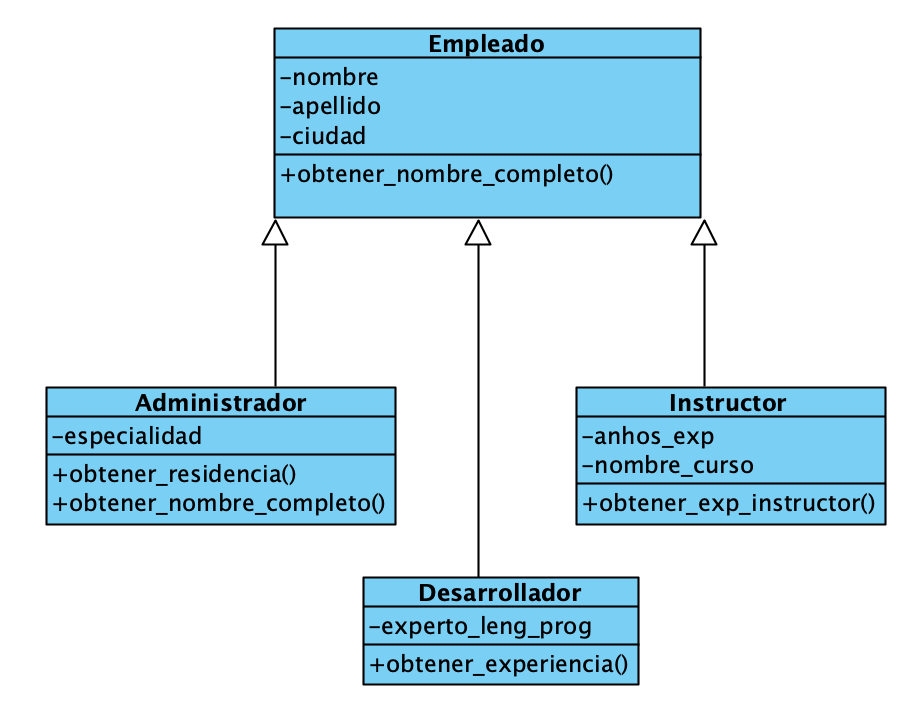
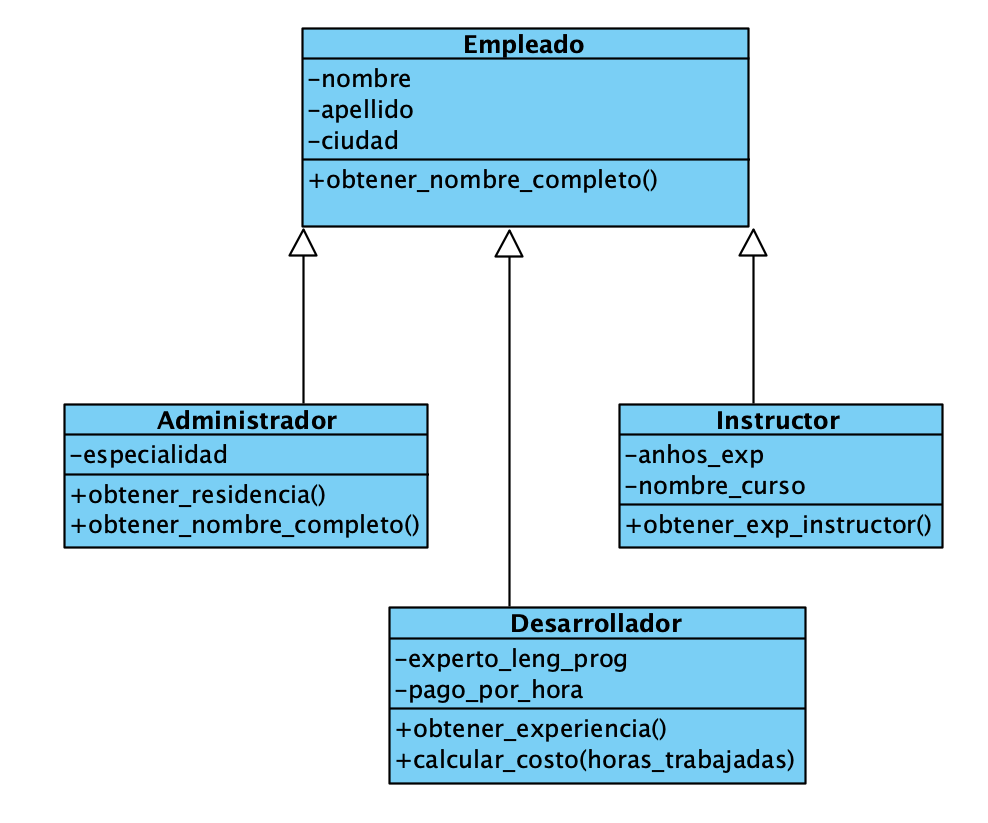
update

Changed region(s): [[0.0303, 0.0311, 0.9697, 0.9958]]

diff --git a/sesion_03_ejercicios/04_ejercicios_herencias.py b/sesion_03_ejercicios/04_ejercicios_herencias.py
@@ -70,14 +70,17 @@ class Administrador(Empleado):
 
 class Desarrollador(Empleado):
     
-    def __init__(self, nombre, apellido, ciudad, experto_lenguaje_prog):
+    def __init__(self, nombre, apellido, ciudad, experto_lenguaje_prog, pago_por_hora = 100):
         super().__init__(nombre, apellido, ciudad) # Llamada al constructor de la clase base    
         self.experto_lenguaje_prog = experto_lenguaje_prog
+        self.pago_por_hora = pago_por_hora
 
     def obtener_experiencia(self):
         return f"El desarrollador {self.nombre} es experto en {self.experto_lenguaje_prog}"
 
-
+    def calcular_pago(self, horas_trabajadas):
+        pago_total = horas_trabajadas * self.pago_por_hora
+        return f"El pago total para el desarrollador {self.nombre} por las {horas_trabajadas} horas es: {pago_total} soles"
 
 class Instructor(Empleado):
     
@@ -97,8 +100,10 @@ print(admin.obtener_nombre_completo())
 
 print('----------- Desarrollador ------------------')
 
-des = Desarrollador("Jaime","Gomez","Trujillo","Python")
+des = Desarrollador("Jaime","Gomez","Trujillo","Python", 175)
 print(des.obtener_experiencia())
+print(des.calcular_pago(24))
+
 
 print('----------- Instructor ------------------')
 

diff --git a/sesion_03_ejercicios/README.md b/sesion_03_ejercicios/README.md
@@ -126,14 +126,17 @@ class Administrador(Empleado):
 
 class Desarrollador(Empleado):
     
-    def __init__(self, nombre, apellido, ciudad, experto_lenguaje_prog):
+    def __init__(self, nombre, apellido, ciudad, experto_lenguaje_prog, pago_por_hora = 100):
         super().__init__(nombre, apellido, ciudad) # Llamada al constructor de la clase base    
         self.experto_lenguaje_prog = experto_lenguaje_prog
+        self.pago_por_hora = pago_por_hora
 
     def obtener_experiencia(self):
         return f"El desarrollador {self.nombre} es experto en {self.experto_lenguaje_prog}"
 
-
+    def calcular_pago(self, horas_trabajadas):
+        pago_total = horas_trabajadas * self.pago_por_hora
+        return f"El pago total para el desarrollador {self.nombre} por las {horas_trabajadas} horas es: {pago_total} soles"
 
 class Instructor(Empleado):
     
@@ -153,8 +156,10 @@ print(admin.obtener_nombre_completo())
 
 print('----------- Desarrollador ------------------')
 
-des = Desarrollador("Jaime","Gomez","Trujillo","Python")
+des = Desarrollador("Jaime","Gomez","Trujillo","Python", 175)
 print(des.obtener_experiencia())
+print(des.calcular_pago(24))
+
 
 print('----------- Instructor ------------------')
 
